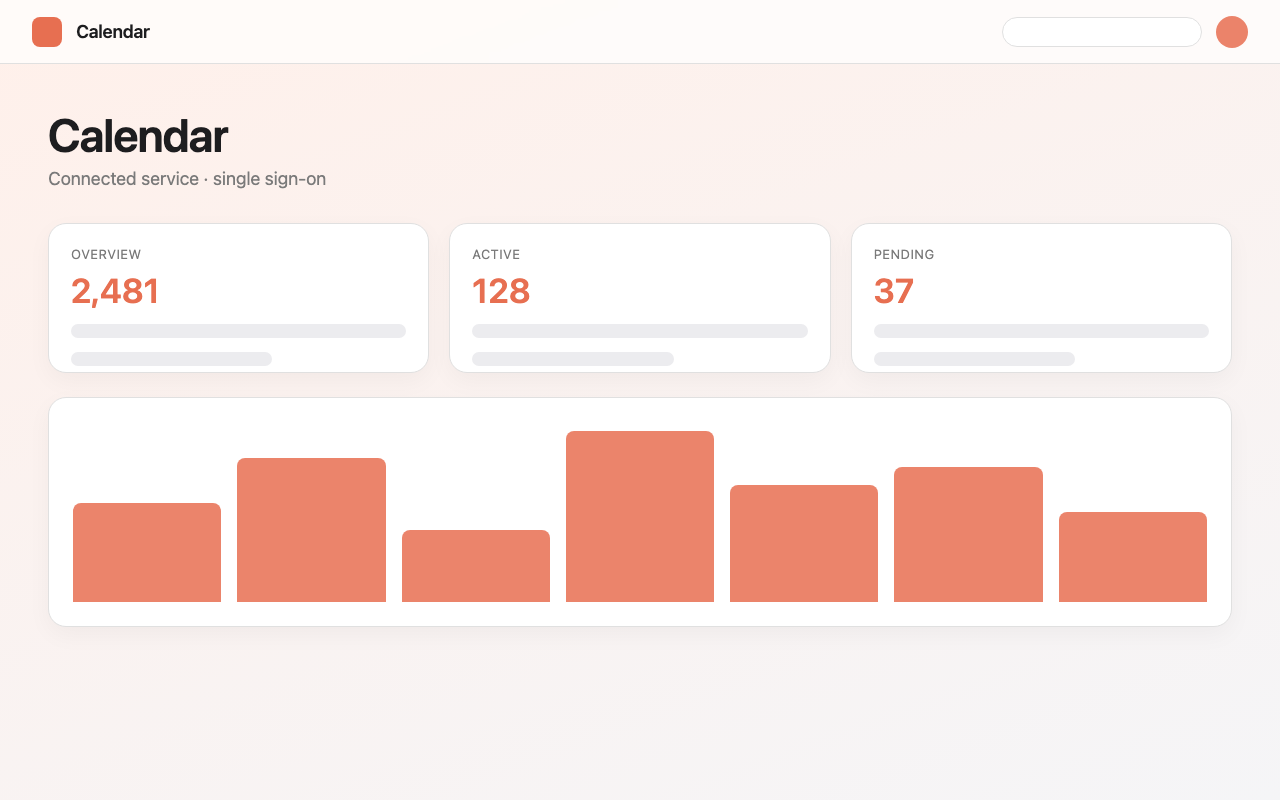
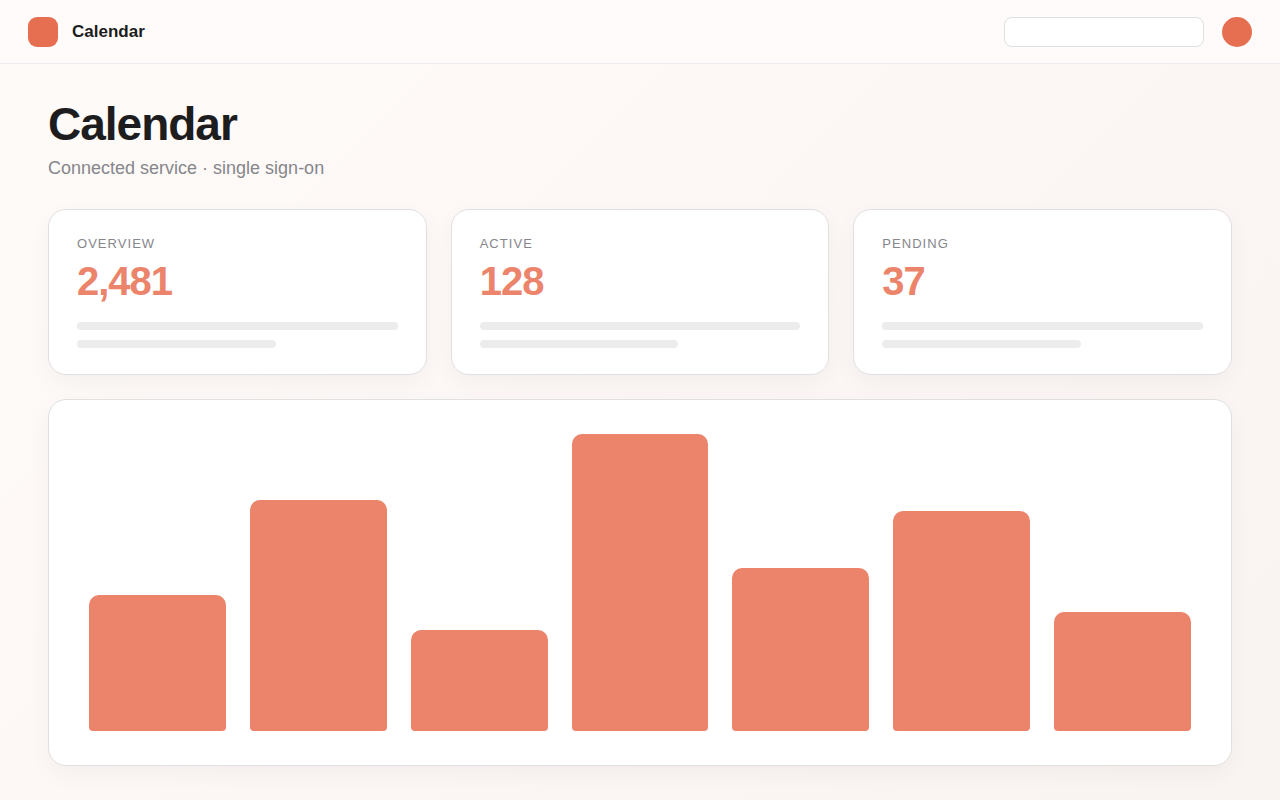
fix(theme): fill showcase mockups to full 1280x800 canvas — 쇼케이스 빈 하단 밴드 제거
v1 mockups left a ~173px empty background band at the bottom (content was
only ~73% tall, pinned to top). Rebuild all four (Analytics/Calendar/
Dashboard/Mail) with the same skeleton + brand colors but a flex column
that stretches html/body to exactly 1280x800 (overflow:hidden) and grows
the chart panel to fill the height, leaving balanced ~34px margins.
Verified via headless capture: bottom 120px band color differs from the
background corner (no dead band). Prompt doc updated to require full-height
fill + bottom-band verification.

diff --git a/PROGRESS.md b/PROGRESS.md
@@ -36,3 +36,7 @@
 - **쇼케이스 덱 로드 무작위화 + URL 핀**: `showcase.js`에 Fisher-Yates `shuffle` 추가 — 로드마다 카드 덱을 무작위 순서로(기존 manifest 파일명 알파벳순 고정 → 랜덤). 더해 `?showcase=<title|filename>` 쿼리 파라미터로 특정 카드를 front에 **고정**(`pinnedFront`, 대소문자 무시·`.png` 제거 매칭, 못 맞추면 0=무작위 폴백). Keycloak 영향 검증: 모르는 auth-endpoint 파라미터는 무시돼 로그인 폼 정상 렌더(HTTP 200), 유효 PKCE 요청이면 `showcase=`가 로그인 페이지 URL에 잔존해 JS가 읽음 → 핀 동작. headless 캡처로 셔플(Mail/Calendar/AI Portal 등 front 변동)·핀(`showcase=Dashboard`→Dashboard front) 확인. 연동 사이트 담당자용 안내문 `docs/showcase-pin-guide.md` 신설(인증 요청 URL에 `&showcase=X` 추가법·스택별 예시·동작 규칙·PKCE FAQ·로컬 테스트 링크). WHY: 로그인마다 다른 서비스가 앞에 보이게 하고, 필요 시 특정 서비스를 URL로 고정할 수 있게.
 - **쇼케이스 일시정지 컨트롤 + 2바퀴 자동정지**: `showcase.js`에 pause/play 토글 버튼 추가(`.sw-pause`, 인라인 SVG 두 아이콘). 쇼케이스 영역에 마우스 진입 후 **0.5초**면 버튼 fade-in(`syncVisible`은 `paused || hoverShown` 기준), 클릭 시 회전 토글(`setInterval` 콜백 선두에서 `if(paused)return`). **일시정지 상태면 호버 없이도 ▶ 버튼 상시 표시**. 더해 드롭 카운터로 **매 2바퀴(2×N 드롭)마다 자동정지**(`drops>=AUTO_PAUSE_AFTER → drops=0; setPaused(true)`, 반복) — 재생하면 또 2바퀴 후 정지. CSS는 `custom.css` 쇼케이스 섹션에 `.sw-pause`(덱 하단중앙·반투명+blur pill·hover scale 1.08·아이콘 토글) 추가, reduced-motion 시 transform 트랜지션 제거. headless로 DOM 배선(카드5+버튼/아이콘 생성, JS 무에러)·버튼 두 상태 시각·라이브 JS/CSS 서빙 확인. 호버/타이머/자동정지 같은 시간·상호작용 동작은 headless 한계로 코드 검증(브라우저 수동 확인 권고). WHY: 사용자가 카드를 멈춰 보거나 자동 회전을 일정 시점에 멈추게 하기 위함.
 - **username 입력 placeholder 추가**: `login.ftl`의 username `<@field.input>` 호출에 `placeholder="Enter your AD account"` 추가(라벨은 그대로 'AD account'). `field.ftl` input 매크로는 이미 placeholder 지원 — password처럼 호출 시 넘기기만 하면 됨. 렌더 HTML에서 username input에 placeholder 출력 확인. WHY: 빈 입력칸에 입력 안내가 없던 것 보완.
+
+## 2026-06-08
+
+- **쇼케이스 이미지 v1 빈 하단 밴드 결함 수정**: 기존 4종(Analytics·Calendar·Dashboard·Mail)이 콘텐츠가 상단 ~73%(17~626px)에만 있고 하단 ~173px가 빈 배경 밴드였던 결함 수정. 원인: 목업 HTML이 800px 높이를 채우지 않고 상단 고정. 동일 스켈레톤(헤더+타이틀+3 stat 카드+차트 패널)·brand색(v1 PNG에서 픽셀 추출: 보라/코랄/블루/틸)을 유지하되, html/body를 정확히 1280×800·`overflow:hidden`으로 두고 `.app`을 `height:100%` flex 컬럼, 차트 패널을 `flex:1`로 늘려 하단 ~34px까지 채움(상·하 여백 균등). Chrome headless(puppeteer로 설치)로 재캡처 후 **하단 120px 밴드 평균색 vs 코너 배경색 비교 + 상/하 빈 여백 ≤80px 검증**(스크립트 자동) → bottomGap 173px→34px·colordiff 93~124 통과, 4장 시각 확인. `gen-services.sh`로 manifest 재생성(파일명 동일·변화 없음). `docs/showcase-image-prompt.md`에 "캔버스 전체 높이 채움(html/body 1280×800·root 100%·flex 컬럼·상하 여백 ≤~40px)" 요구사항·"하단 밴드 평균색 검증" 단계·체크리스트 항목 추가해 재발 방지. WHY: 로그인 카드 슬롯(aspect 1280/800 고정)에서 하단 빈 흰 밴드가 어색하게 보이던 문제 제거.

diff --git a/docs/showcase-image-prompt.md b/docs/showcase-image-prompt.md
@@ -50,7 +50,12 @@ GOAL: a SIMPLIFIED skeleton that is still recognizably this site.
 - On top of that skeleton, apply this small shared tone (so a row of these cards looks
   like one family):
   1. Canvas exactly 1280x800, no browser chrome / window title bar / rounded outer
-     corners; fill the whole canvas.
+     corners; fill the whole canvas. The content MUST span the full height edge to
+     edge — set html/body to exactly 1280x800 (margin:0; overflow:hidden) and make the
+     root container width:100% height:100%, laying out sections as a flex column so the
+     main panel stretches down near the bottom. Top and bottom margins must be small and
+     roughly EQUAL (≤ ~40px each). Do NOT leave the bottom quarter as an empty background
+     band (the v1 defect: content was only ~73% tall, pinned to the top).
   2. Background: soft diagonal gradient from a faint tint of the site's brand color
      into #f5f5f7.
   3. Cards/panels: white surface, 1px #e0e0e0 hairline border, 18px corner radius,
@@ -74,6 +79,14 @@ PRODUCE 4 CANDIDATES
 - Build a 2x2 contact sheet: a simple HTML grid embedding the 4 screenshots, screenshot
   it to contact.png so I can compare all four at once.
 
+VERIFY EACH SCREENSHOT FILLS THE CANVAS (before showing me — never hand over a dead band)
+- For each 1280x800 PNG, sample the average color of the bottom 120px and of a known-
+  background corner (e.g. 4,4). If they are nearly identical, the bottom is an empty band:
+  FIX the HTML (stretch the layout to 100% height / balance the margins) and RE-screenshot.
+- Reject any candidate whose top OR bottom empty margin exceeds ~80px. Loop until the real
+  content (panels/cards/ghost shapes) reaches close to the bottom edge with only small,
+  balanced margins.
+
 THEN STOP and show me the 4 candidates + contact sheet, and ask which one to keep.
 Do not finalize or clean up until I pick. After I pick, keep only the chosen PNG and
 tell me its path so I can copy it into the theme repo.
@@ -91,6 +104,7 @@ tell me its path so I can copy it into the theme repo.
 - [ ] **스크린샷이 아니라 단순화된 목업으로 보인다** — 본문이 고스트 플레이스홀더로 비워져 있다.
 - [ ] 그래도 레이아웃 구조·로고·시그니처 UI 형태·brand색으로 그 사이트임을 알 수 있다.
 - [ ] 공통 톤 속성(1280×800·배경 그라데이션·hairline 카드·flat·단일 accent·고스트)이 적용됐다.
+- [ ] **콘텐츠가 캔버스 전체 높이를 채운다** — 상·하 여백이 작고 균등(각 ≤ ~40px), 하단 1/4이 빈 배경 밴드가 아니다(v1 결함).
 - [ ] 바깥 브라우저 크롬/라운드 외곽이 없다.
 - [ ] accent가 사이트 brand색에서 왔고 한 가지 hue로 통일됐다.
 - [ ] 실제 사용자 데이터·시크릿이 들어가지 않았다(플레이스홀더만).
